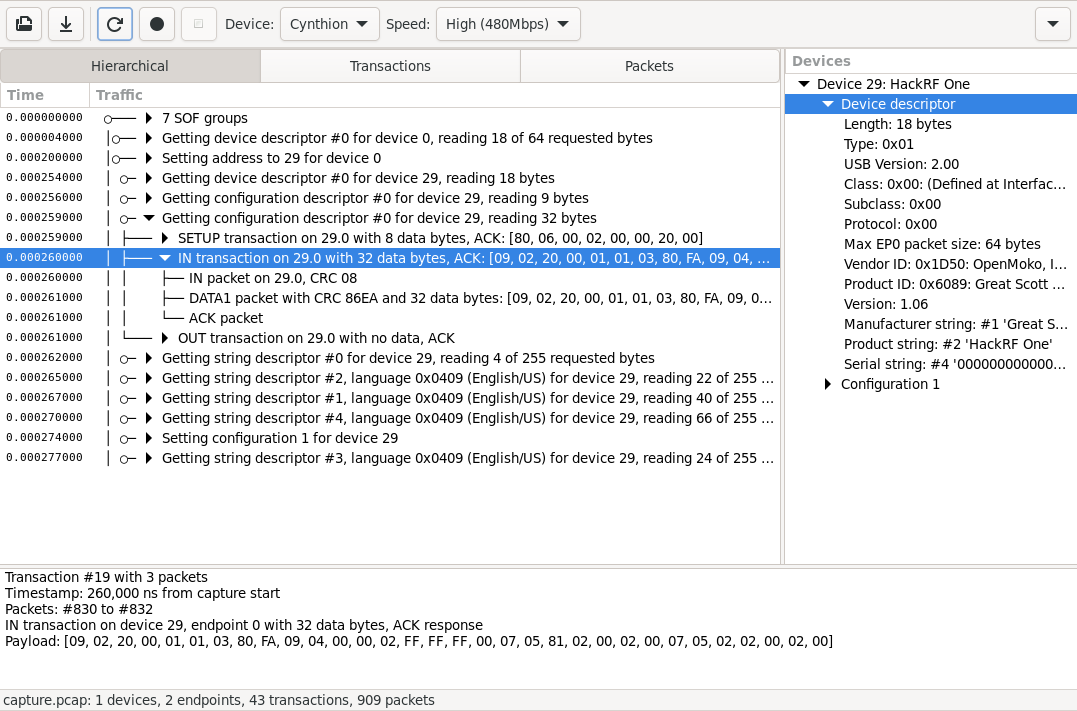
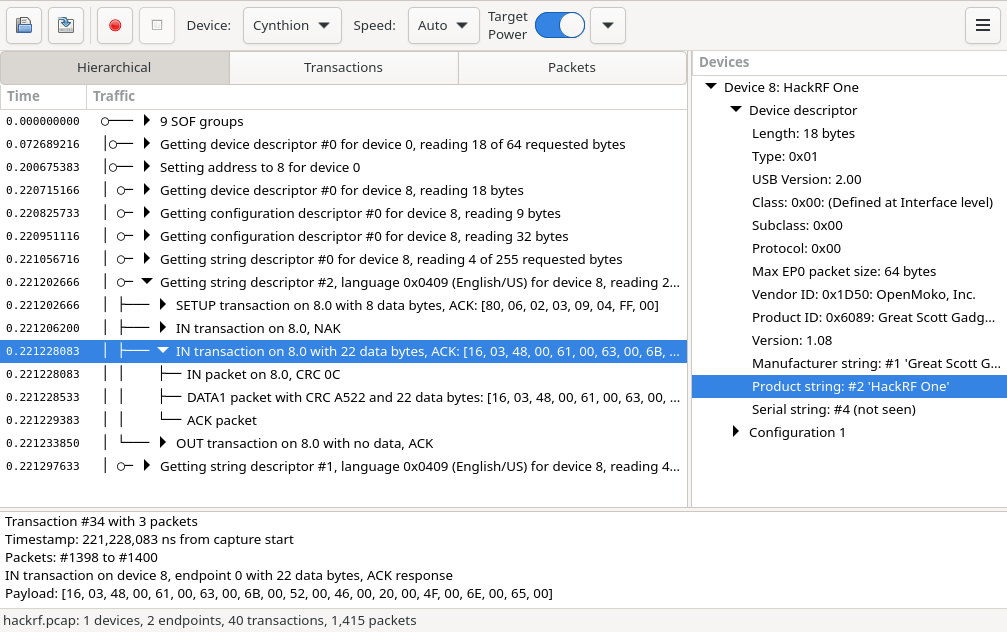
Update documentation for release 0.5.0

Changed region(s): [[0.0, 0.0, 1.0, 0.7516], [0.0, 0.7816, 1.0, 1.0]]

diff --git a/docs/source/quick_start.rst b/docs/source/quick_start.rst
@@ -41,7 +41,7 @@ Install Packetry
 
                 yum install rust cargo make gcc gcc-c++ gtk4-devel pango-devel git
 
-        Note that Packetry requires a minimum Rust version of 1.74. If your distribution's packages are older than this, use `rustup <https://rustup.rs/>`__ to get the latest Rust toolchain and manage your Rust installation.
+        Note that Packetry requires a minimum Rust version of 1.85. If your distribution's packages are older than this, use `rustup <https://rustup.rs/>`__ to get the latest Rust toolchain and manage your Rust installation.
 
         **Download Packetry Source Code**
 
@@ -184,9 +184,7 @@ Run the Packetry executable. The Packetry window should appear.
 Start Capturing USB Traffic
 ---------------------------
 
-Make sure that "Cynthion" is selected in the Device Drop-down. If this list is empty, use the Scan Button to search for a capture device.
-
-Select the target device speed from the Speed Drop-down. If you don't know the target speed, try each speed until you find the one that works for your device. (Automatic speed detection coming soon!)
+Make sure that "Cynthion" is selected in the Device Drop-down. If this list is empty, check that your Cynthion is connected via its CONTROL port and is running the USB analyzer gateware.
 
 Click the Capture Button.
 

diff --git a/docs/source/user_interface.rst b/docs/source/user_interface.rst
@@ -12,12 +12,15 @@ Across the top of the Packetry window is the Action Bar used to control Packetry
 
 - **Open Button**: Clears Traffic Pane and Device Pane and loads a ``.pcap`` file with the ``LINKTYPE_USB_2_0`` link-layer header type.
 - **Save Button**: Saves a ``.pcap`` file with the ``LINKTYPE_USB_2_0`` link-layer header type.
-- **Scan Button**: Searches for a capture device such as a Cynthion running analyzer gateware.
 - **Capture Button**: Clears Traffic Pane and Device Pane and starts capturing USB data with the connected capture device.
 - **Stop Button**: Stops capturing USB data. Stops reading USB data from file.
-- **Device Drop-down**: Selects a capture device. If you don't see a device listed here, try using the Scan button.
+- **Device Drop-down**: Selects a capture device. This list is updated automatically as devices are attached or unplugged.
 - **Speed Drop-down**: Selects the target device speed for live capture.
+- **Target Power Switch**: Turns on or off power to the target device (requires a Cynthion analyzer and suitable gateware).
+- **Power Menu**: Where target power control is available, opens a menu for additional power control settings.
 
+.. image:: ../images/power-menu.png
+   :alt: Power Menu
 
 Traffic Pane
 ------------

diff --git a/docs/source/keyboard_shortcuts_linux_windows.rst b/docs/source/keyboard_shortcuts_linux_windows.rst
@@ -21,10 +21,6 @@ Live Capture
 +---------------+--------------------------+
 | Keypress      | Command                  |
 +===============+==========================+
-| ``Ctrl + R``  | Scan for capture devices |
-+---------------+--------------------------+
-| ``F5``        | Scan for capture devices |
-+---------------+--------------------------+
 | ``Ctrl + B``  | Begin live capture       |
 +---------------+--------------------------+
 | ``Ctrl + E``  | End live capture         |

diff --git a/docs/source/keyboard_shortcuts_macos.rst b/docs/source/keyboard_shortcuts_macos.rst
@@ -21,10 +21,6 @@ Live Capture
 +-----------+--------------------------+
 | Keypress  | Command                  |
 +===========+==========================+
-| ``⌘ + R`` | Scan for capture devices |
-+-----------+--------------------------+
-| ``F5``    | Scan for capture devices |
-+-----------+--------------------------+
 | ``⌘ + B`` | Begin live capture       |
 +-----------+--------------------------+
 | ``⌘ + E`` | End live capture         |
